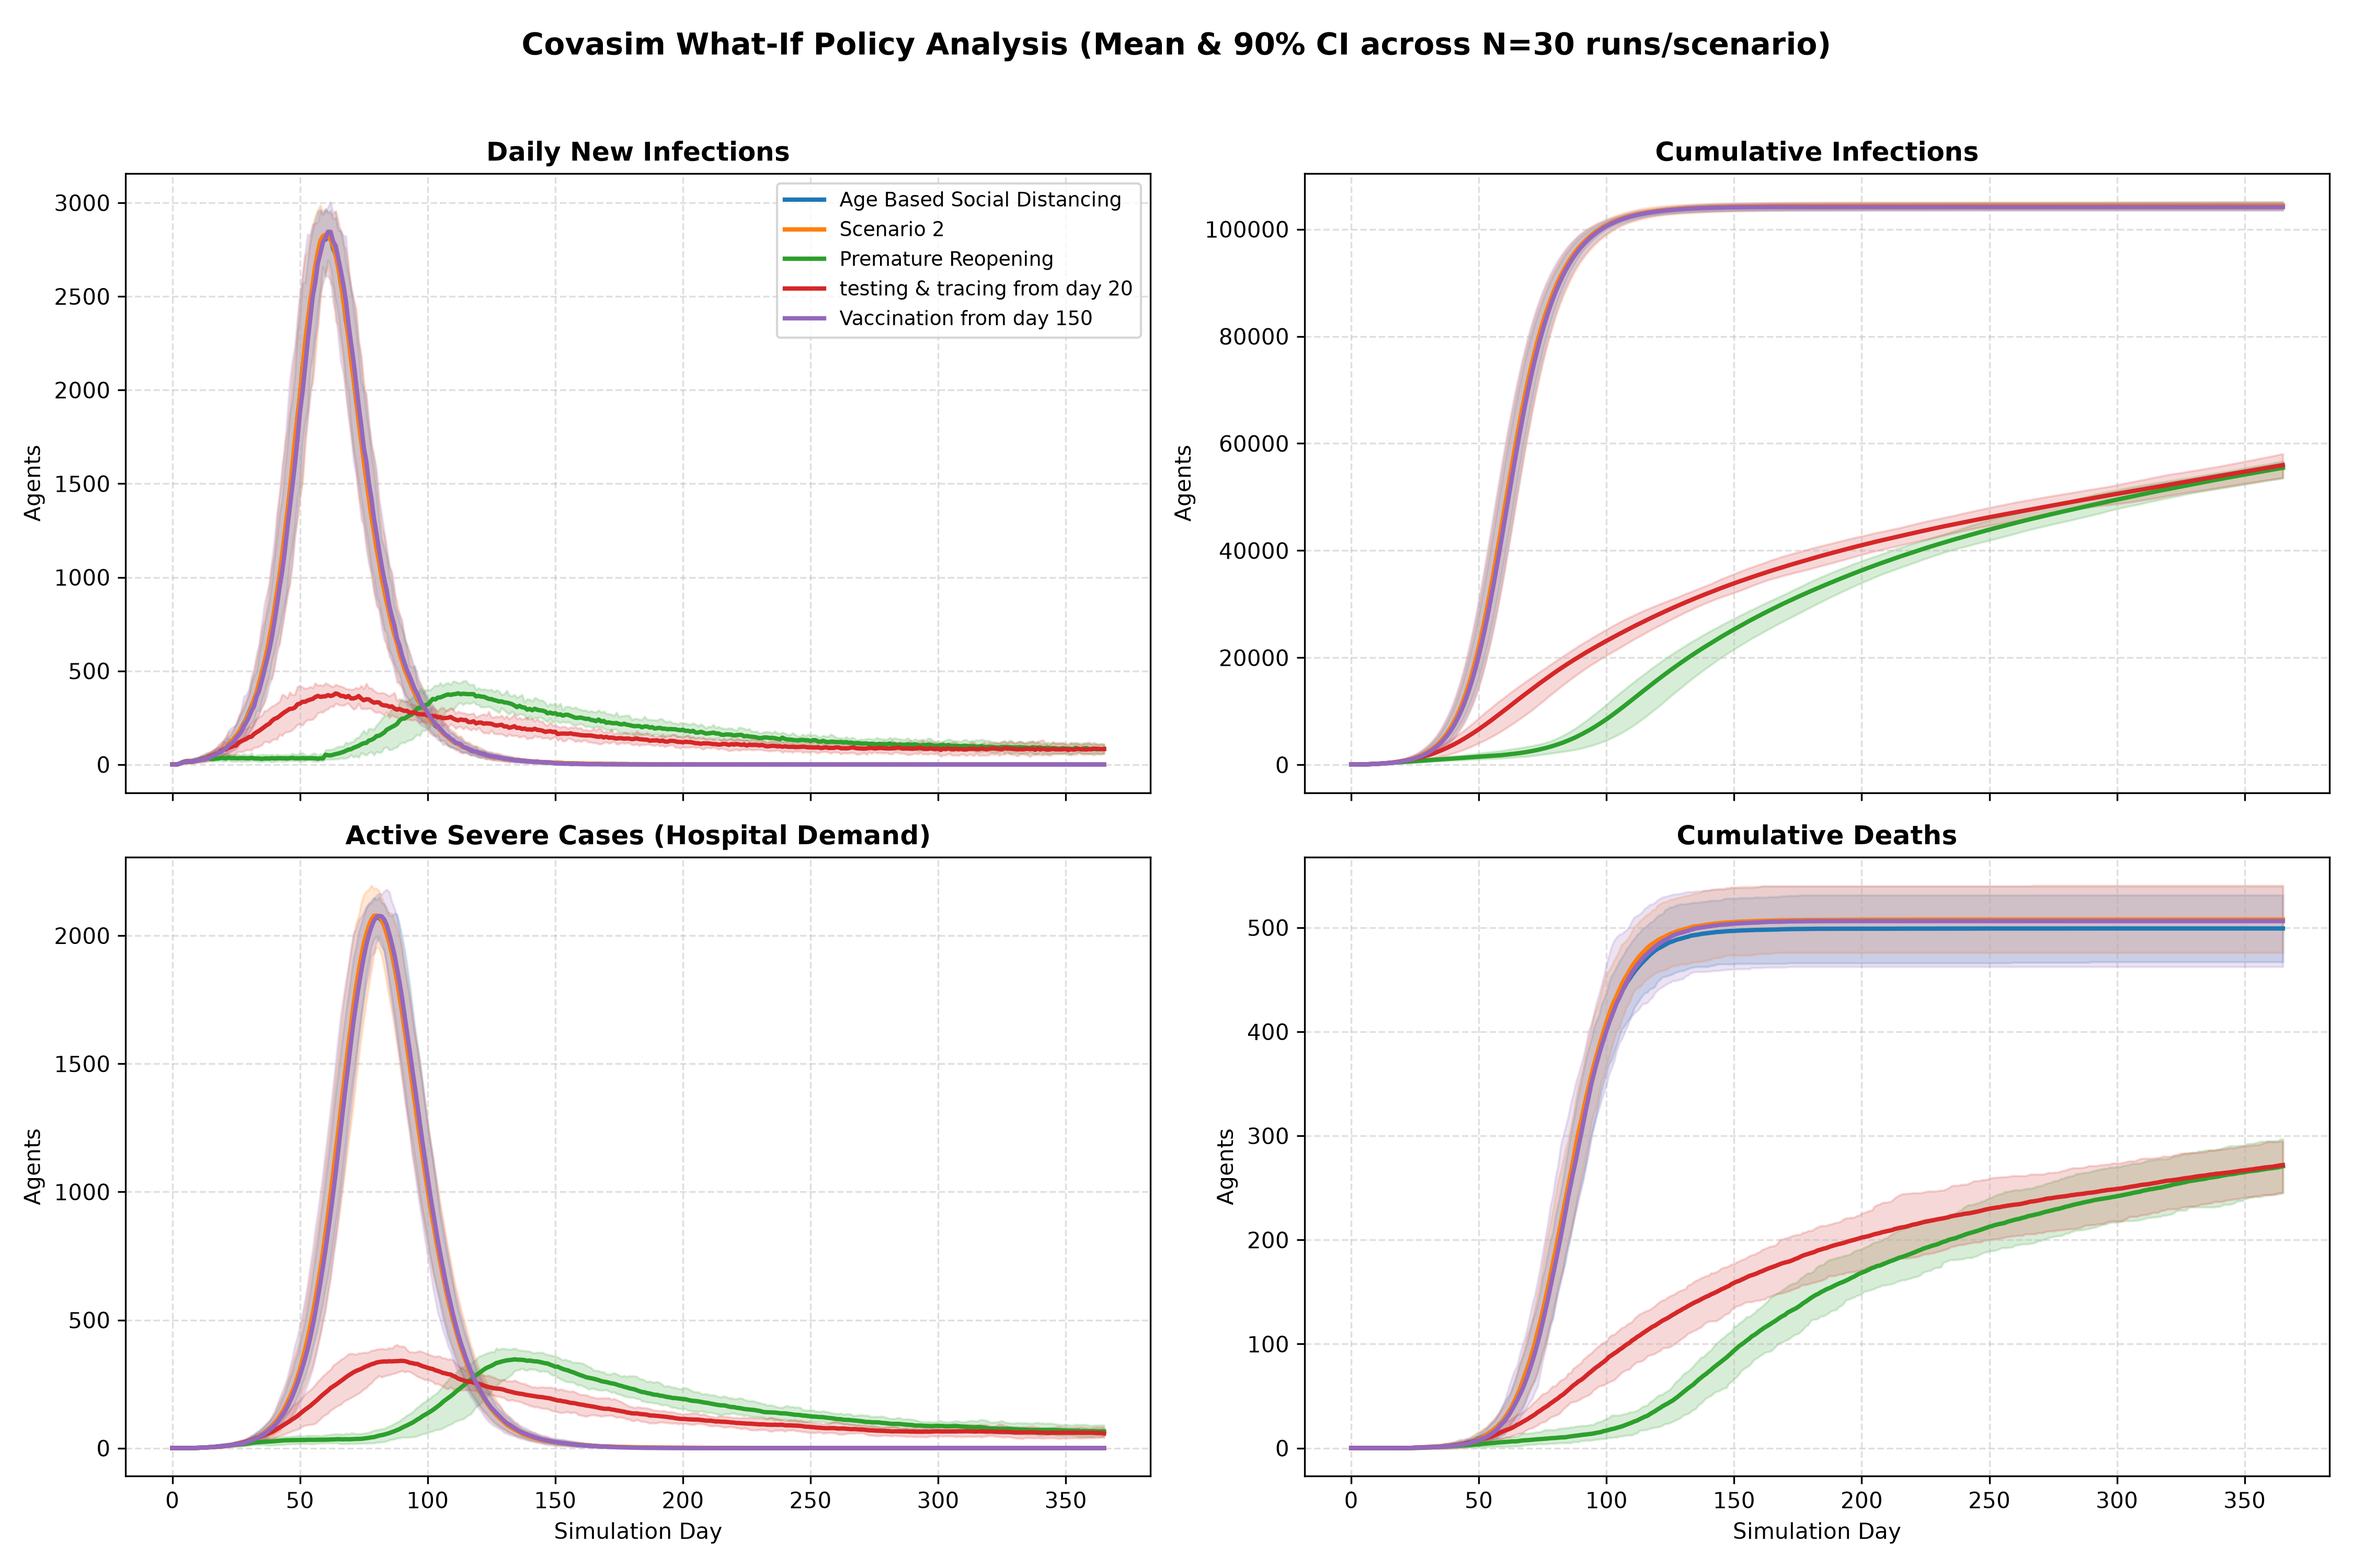
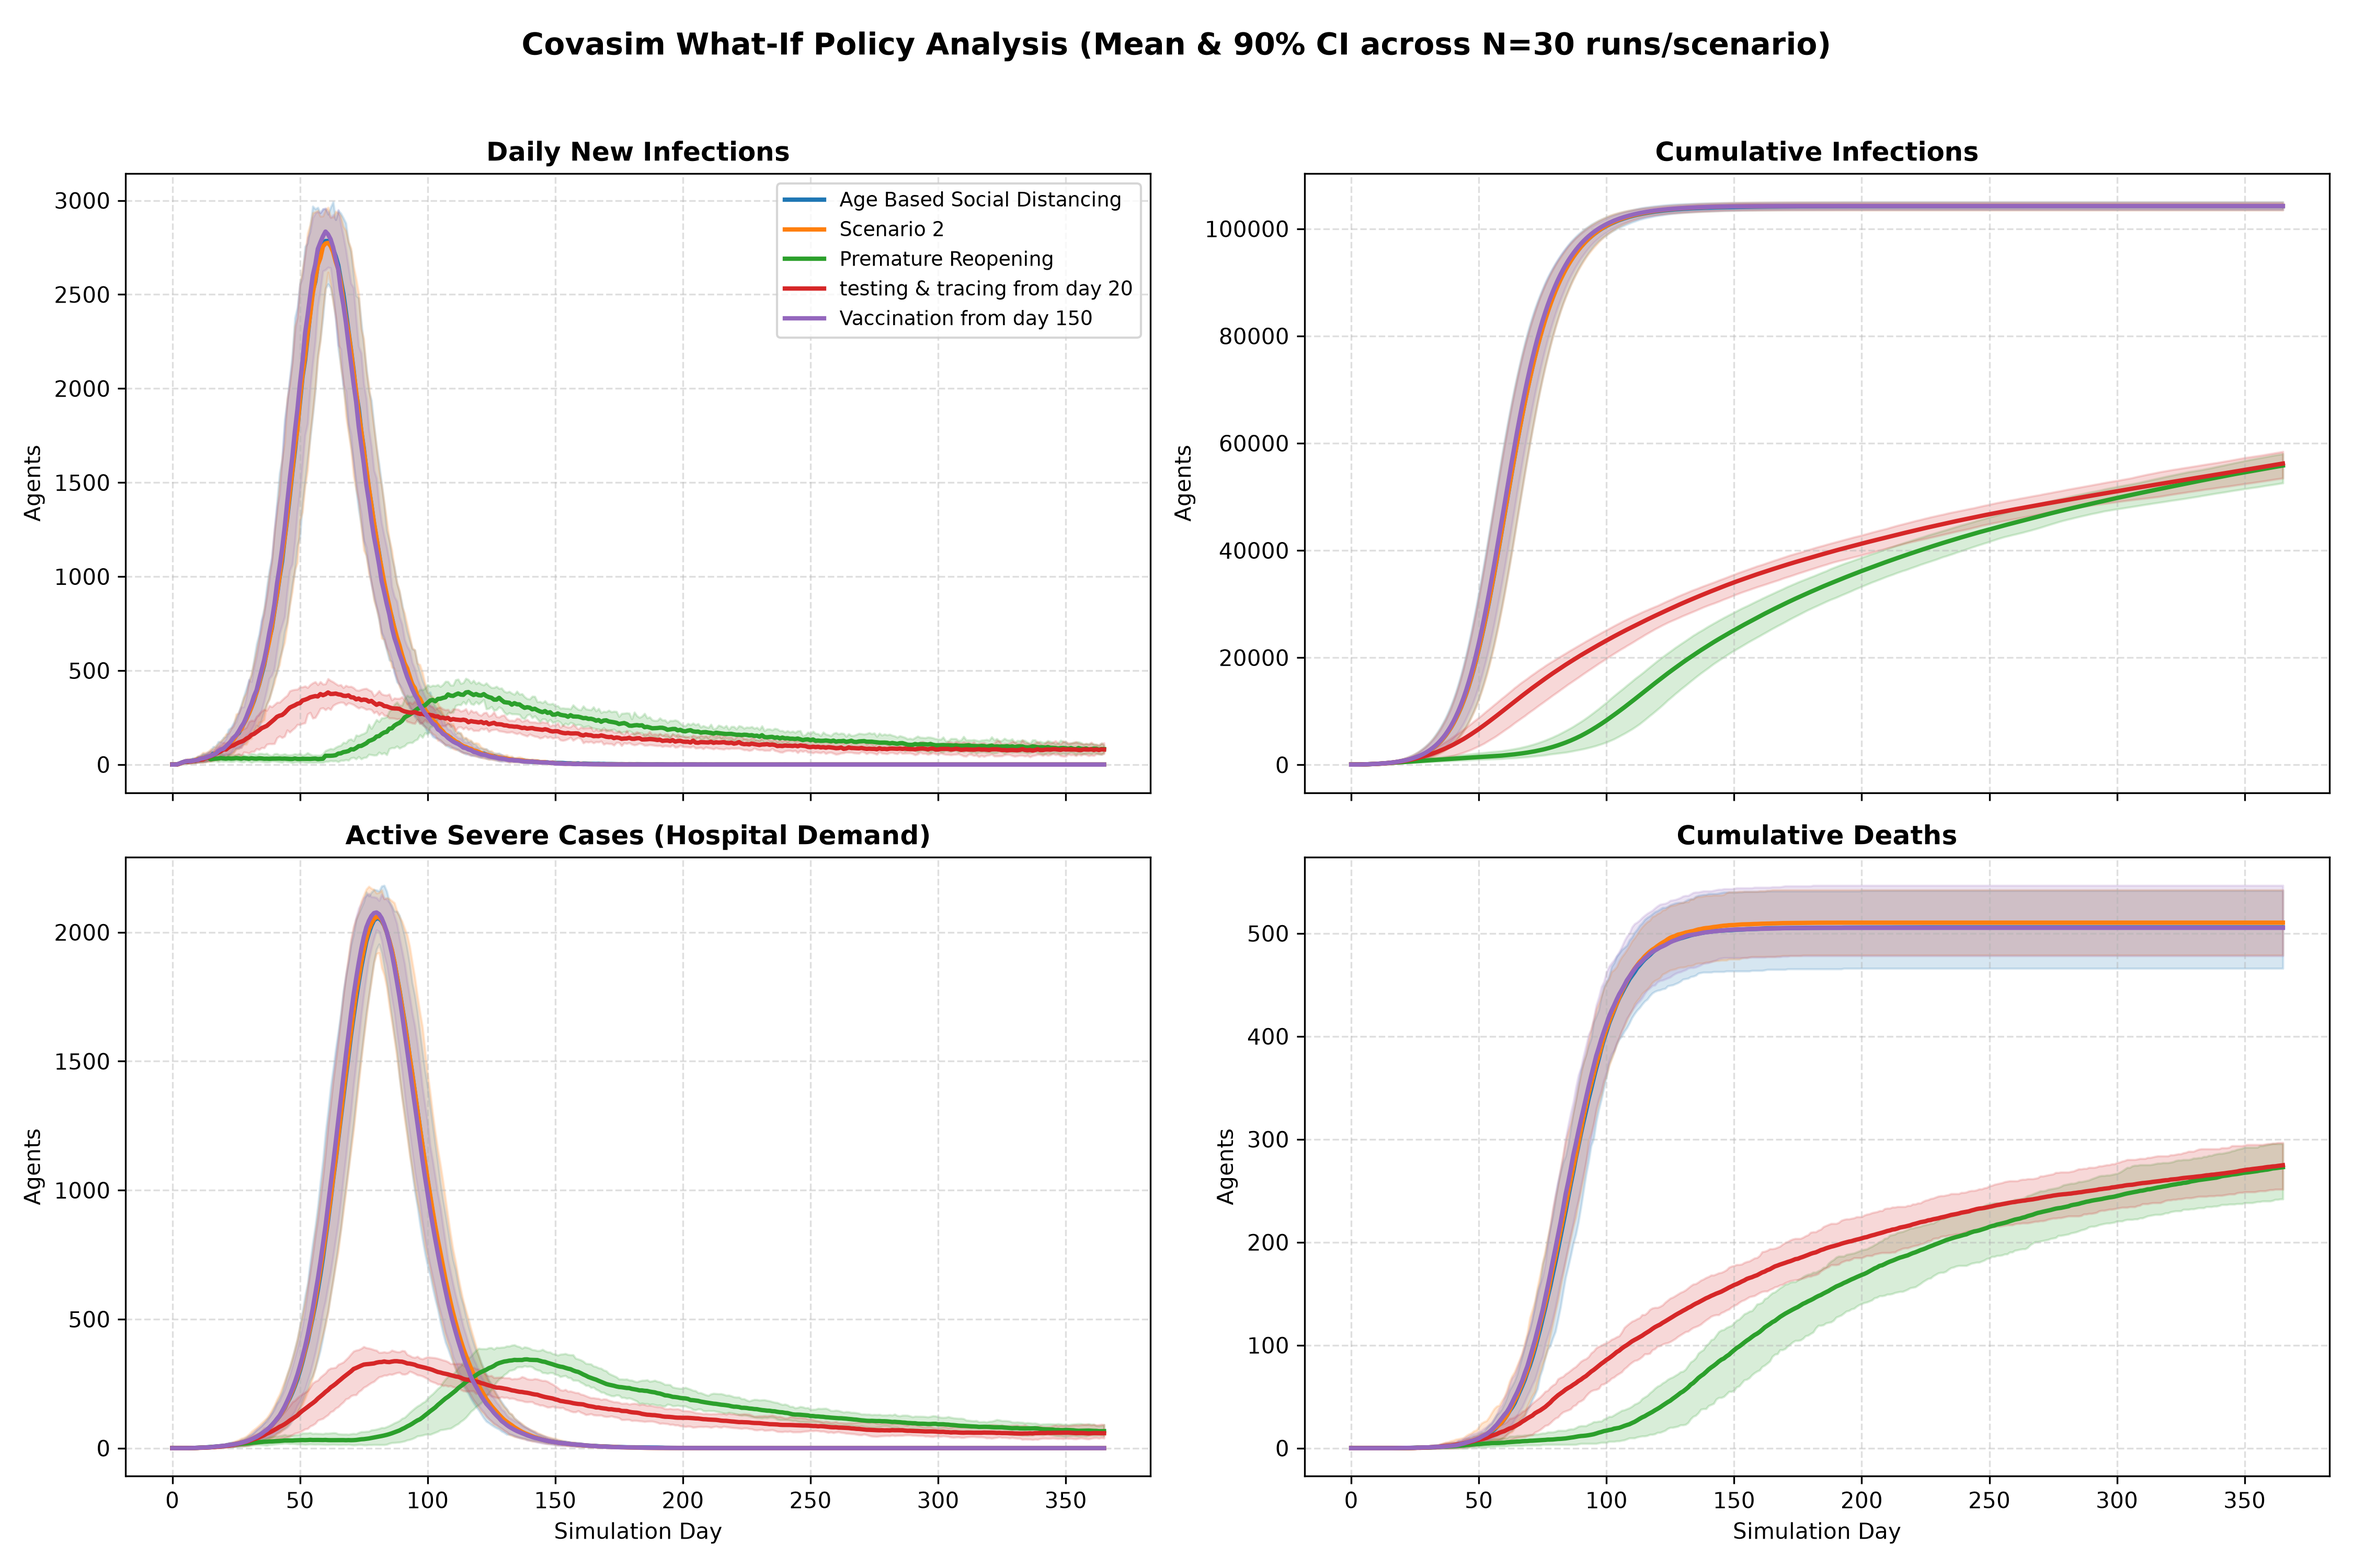
3 scen

diff --git a/M2/scenarios.py b/M2/scenarios.py
@@ -134,12 +134,34 @@ def tracing(start):
                                 trace_time=dict(h=0, s=2, w=2, c=5),
                                 start_day=start)
 
+# What if vaccinations are prioritized for schoolkids and the elderly
+def vaccinate_by_age(sim):
+    young  = cv.true(sim.people.age < 19) # cv.true() returns indices of people matching this condition
+    middle = cv.true((sim.people.age >= 19) * (sim.people.age < 75)) # Multiplication means "and" here
+    old    = cv.true(sim.people.age >= 75)
+    
+    # Combine agent UIDs
+    inds = np.concatenate([young, middle, old])
+
+    # Assign vaccination probabilities
+    vals = np.concatenate([
+        np.full(len(young), 0.9),   # 90% for under 19
+        np.full(len(middle), 0.5),  # 50% for 19-74
+        np.full(len(old), 0.9)      # 90% for 75+
+    ])
+    output = dict(inds=inds, vals=vals)
+    return output
+
+
+# same vaccination as the simple Vaccination. Without ensuring if the total probability dismissing the targets adds up to the probability of 75% as in the simple vaccination
+VACCINATION_BY_AGEGROUP = cv.simple_vaccine(days=[150,171], rel_sus=0.5, rel_symp=0.5, subtarget=vaccinate_by_age)
+
 
 def get_scenarios():
     """Define scenarios"""
     baseline = []
-    scenario_1 = [] #AGE_BASED_SOCIAL_DISTANCING
-    scenario_2 = []
+    scenario_1 = []#AGE_BASED_SOCIAL_DISTANCING]
+    scenario_2 = [VACCINATION_BY_AGEGROUP]
     scenario_3 = PREMATURE_OPENING
     scenario_4 = [testing(20), tracing(20)]
     scenario_5 = [VACCINATION]
